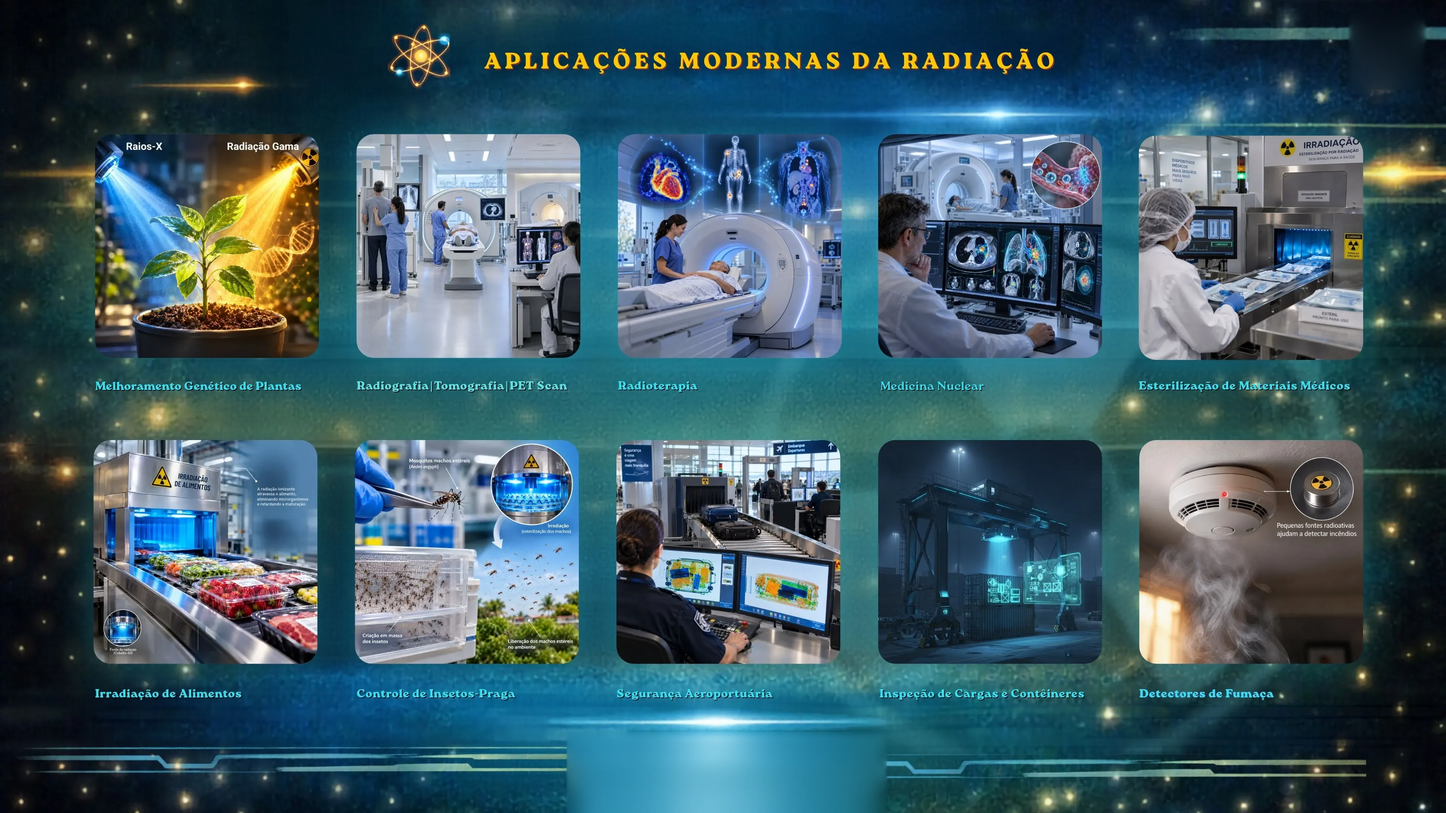
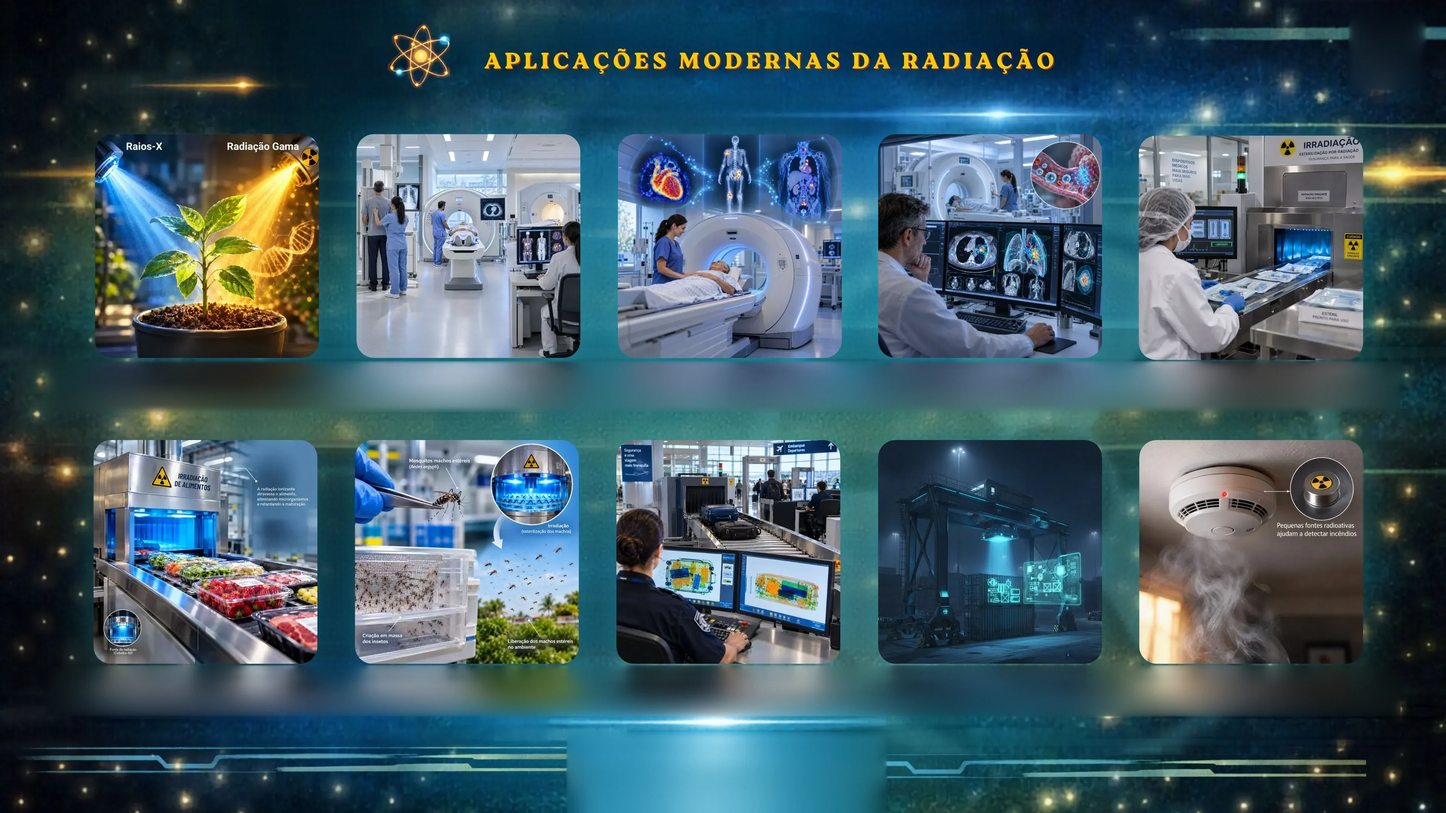
Legendas legíveis nas grades e botão de tela cheia
- Remove as legendas miúdas desenhadas nos slides e as refaz em HTML (28 px, alto contraste)
- Aumenta a fonte dos textos das miniaturas da História
- Botão de tela cheia no canto superior direito, em todas as telas

Changed region(s): [[0.0625, 0.8065, 0.9062, 0.8995], [0.0312, 0.4343, 0.9688, 0.5273], [0.9375, 0.8065, 0.9688, 0.8375]]

diff --git a/app.js b/app.js
@@ -1,5 +1,5 @@
 import { exhibits } from './acervo.js'
-import { themes, pages, slideDetails } from './layout.js'
+import { themes, pages, slideDetails, captions } from './layout.js'
 
 const W = 1920
 const H = 1080
@@ -69,10 +69,16 @@ function buildPage(id) {
     // Folhas de imagem lado a lado, rolando na horizontal.
     total = page.sheets.length
     html = `<h1 class="sr">${theme.name}</h1>
-      <div class="strip"><div class="strip-track">${page.sheets.map(sheet => `<div class="strip-page"><img class="bg" src="${sheet.bg}" alt="">${sheet.tiles.map((rect, i) => hot(rect, byId[sheet.items[i]].title, `item:${sheet.items[i]}`)).join('')}</div>`).join('')}</div></div>`
+      <div class="strip"><div class="strip-track">${page.sheets.map(sheet => `<div class="strip-page"><img class="bg" src="${sheet.bg}" alt="">${sheet.tiles.map((rect, i) => captionTile(rect, sheet.items[i])).join('')}</div>`).join('')}</div></div>`
   }
   const el = screen(id, `page tone-${theme.tone}`, html)
   initStrip(el, total)
+}
+
+// Área de toque sobre a miniatura do slide, com a legenda escrita em HTML (grande e legível).
+function captionTile(rect, id) {
+  const text = captions[id] ?? byId[id].title
+  return `<button type="button" class="hot cap-tile" style="${box(rect)}" data-go="item:${id}" aria-label="${esc(text)}"><span class="cap">${esc(text)}</span></button>`
 }
 
 function tileHtml(rect, item, eager = false) {
@@ -191,6 +197,35 @@ function syncDock() {
     dock.classList.toggle('single', el.pager.total < 2)
   }
 }
+
+/* ---------- botão de tela cheia (canto superior direito, em todas as telas) ---------- */
+
+const fsIcon = {
+  expand: '<svg viewBox="0 0 24 24" aria-hidden="true"><path d="M4 9V4h5M20 9V4h-5M4 15v5h5M20 15v5h-5" fill="none" stroke="currentColor" stroke-width="2.6" stroke-linecap="round" stroke-linejoin="round"/></svg>',
+  compress: '<svg viewBox="0 0 24 24" aria-hidden="true"><path d="M9 4v5H4M15 4v5h5M9 20v-5H4M15 20v-5h5" fill="none" stroke="currentColor" stroke-width="2.6" stroke-linecap="round" stroke-linejoin="round"/></svg>',
+}
+const root = document.documentElement
+const enterFullscreen = root.requestFullscreen ?? root.webkitRequestFullscreen
+const fsElement = () => document.fullscreenElement ?? document.webkitFullscreenElement
+const fsButton = document.createElement('button')
+fsButton.type = 'button'
+fsButton.className = 'fs-btn'
+function syncFullscreen() {
+  const on = Boolean(fsElement())
+  fsButton.innerHTML = on ? fsIcon.compress : fsIcon.expand
+  fsButton.setAttribute('aria-label', on ? 'Sair da tela cheia' : 'Tela cheia')
+  fsButton.title = on ? 'Sair da tela cheia' : 'Tela cheia'
+}
+function toggleFullscreen() {
+  if (fsElement()) (document.exitFullscreen ?? document.webkitExitFullscreen).call(document)
+  else enterFullscreen?.call(root, { navigationUI: 'hide' })?.catch?.(() => {})
+}
+fsButton.addEventListener('click', toggleFullscreen)
+document.addEventListener('fullscreenchange', syncFullscreen)
+document.addEventListener('webkitfullscreenchange', syncFullscreen)
+if (!enterFullscreen) fsButton.hidden = true // ex.: iPhone/iPad não permitem
+syncFullscreen()
+stage.append(fsButton)
 
 /* ---------- navegação ---------- */
 
@@ -344,7 +379,7 @@ resetIdle()
 addEventListener('keydown', event => {
   if (event.key === 'Escape') go('menu')
   if (event.key === 'f' || event.key === 'F') {
-    document.fullscreenElement ? document.exitFullscreen() : document.documentElement.requestFullscreen?.().catch(() => {})
+    toggleFullscreen()
   }
 })
 addEventListener('contextmenu', event => event.preventDefault())

diff --git a/layout.js b/layout.js
@@ -17,7 +17,19 @@ export const themes = {
 
 // Cada tema tem folhas de grade: uma imagem de fundo com as miniaturas já desenhadas, mais as áreas de
 // toque ("tiles") na mesma ordem das miniaturas. As folhas de um tema ficam lado a lado numa faixa rolável.
-const sheet = (bg, items) => ({ bg, tiles: grid(colsA, colsA, 175, 580), items })
+const sheet = (bg, items) => ({ bg, tiles: grid(colsA, colsA, 175, 580, 297, 297 + 64), items })
+
+// Legendas das miniaturas (refeitas em HTML, maiores que as do slide).
+export const captions = {
+  trem: 'Trem Atômico Quase Existiu', 'raio-x-beleza': 'O Raio X da Beleza', fluoroscopio: 'Fluoroscópio de Calçados', pintoras: 'Meninas do Radium', carro: 'Carro Atômico',
+  brinquedos: 'Brinquedos Atômicos', joias: 'Joias Radioativas?', radithor: 'Bebidas Revigorantes', dentifricio: 'Creme Dental', cosmetico: 'Creme de Beleza',
+  parker: 'O Sonho Atômico da Parker', uralina: 'Vidros de Uralina', cadernos: 'Cadernos de Marie Curie', simbolo: 'Aviso de Radiação Ionizante', relogios: 'Relógios com Tinta de Rádio',
+  saque: 'Saquê de Fukushima', oklo: 'O Reator Natural de Oklo', atomik: 'A Vodca Atomik de Chernobil', experimentos: 'Experimentos Secretos com Plutônio', pararaios: 'Para-raios Radioativos',
+  melhoramento: 'Melhoramento Genético de Plantas', diagnostico: 'Radiografia, Tomografia e PET Scan', radioterapia: 'Radioterapia', nuclear: 'Medicina Nuclear', esterilizacao: 'Esterilização de Materiais Médicos',
+  alimentos: 'Irradiação de Alimentos', pragas: 'Controle de Insetos-Praga', aeroporto: 'Segurança Aeroportuária', cargas: 'Inspeção de Cargas e Contêineres', fumaca: 'Detectores de Fumaça',
+  energia: 'Geração de Energia', ambiente: 'Monitoramento Ambiental', industria: 'Aplicação Industrial', inspecao: 'Inspeção Industrial', gemas: 'Colorização de Gemas',
+  qualidade: 'Controle de Qualidade Industrial', arqueologia: 'Datação Arqueológica', petroleo: 'Exploração de Petróleo e Gás', insetos: 'Insetos Comestíveis: É Seguro?', protecao: 'Radioproteção',
+}
 
 export const pages = {
   cur1: {

diff --git a/styles.css b/styles.css
@@ -140,3 +140,16 @@ noscript { color: #fff; }
 .dock-round svg { width: 40px; height: 40px; }
 .dock-count { min-width: 120px; text-align: center; font: 700 34px Georgia, serif; color: var(--dock); letter-spacing: .06em; }
 .dock-btn:active, .dock-round:active { transform: scale(.94); filter: brightness(1.25); }
+
+/* Legendas das miniaturas das grades (Curiosidades e Aplicações) */
+.cap-tile { display: block; }
+.cap { position: absolute; left: -18px; right: -18px; bottom: 0; height: 64px; display: flex; align-items: flex-start; justify-content: center; text-align: center; font: 700 28px/1.14 "Open Sans", system-ui, sans-serif; color: #fff7d6; text-shadow: 0 0 10px rgba(0, 0, 0, .95), 0 2px 4px rgba(0, 0, 0, .95); pointer-events: none; }
+.tone-blue .cap { color: #d9f8ff; }
+.tile span { font-size: 27px; }
+.tile span b { font-size: 34px; }
+
+/* Tela cheia */
+.fs-btn { position: absolute; top: 24px; right: 28px; z-index: 11; width: 76px; height: 76px; border-radius: 50%; display: grid; place-items: center; color: #fff; background: rgba(8, 10, 14, .62); border: 2px solid rgba(255, 255, 255, .6); -webkit-backdrop-filter: blur(8px); backdrop-filter: blur(8px); box-shadow: 0 6px 20px rgba(0, 0, 0, .5); transition: transform .15s, background .15s; }
+.fs-btn[hidden] { display: none; }
+.fs-btn svg { width: 40px; height: 40px; }
+.fs-btn:active { transform: scale(.92); background: rgba(255, 255, 255, .25); }
